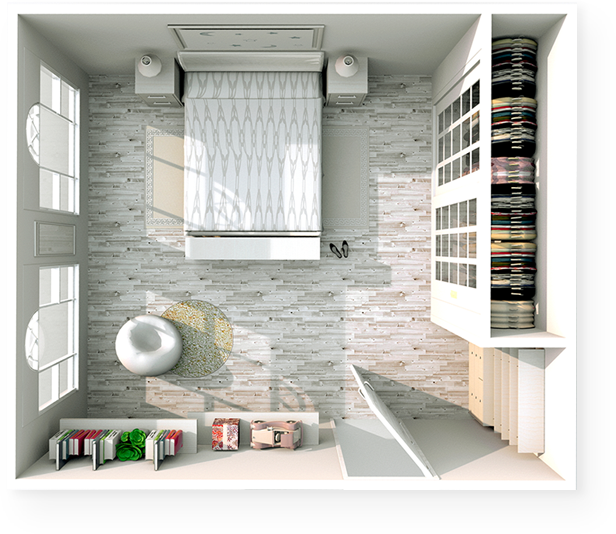
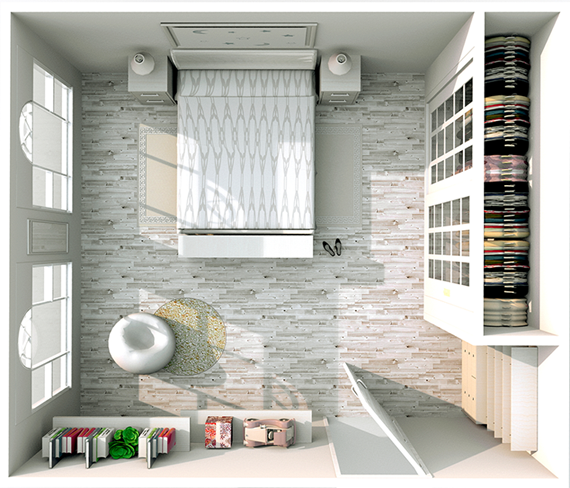
Исправил положение hero-image, добавил к нему тени и адаптировал для экранов 320px

diff --git a/src/css/style.css b/src/css/style.css
@@ -102,6 +102,15 @@ img {
   padding: 50px 0;
 }
 
+.hero-image {
+  -webkit-box-shadow: 10px 10px 30px rgba(154, 147, 140, 0.5);
+          box-shadow: 10px 10px 30px rgba(154, 147, 140, 0.5);
+}
+
+.hero-image img {
+  max-width: 100%;
+}
+
 .hero-block {
   display: -webkit-box;
   display: -ms-flexbox;
@@ -183,9 +192,6 @@ img {
 }
 
 @media (max-width: 768px) {
-  .hero-image {
-    max-width: 100%;
-  }
   .hero-text__title {
     font-size: 24px;
     line-height: 1.4;

diff --git a/src/sass/blocks/_hero.sass b/src/sass/blocks/_hero.sass
@@ -1,6 +1,10 @@
 .hero
   background-color: $hero-color
   padding: 50px 0
+  &-image
+    box-shadow: 10px 10px 30px rgba(154, 147, 140, 0.5)
+    img
+      max-width: 100%
   &-block
     display: flex
   &-text
@@ -46,8 +50,6 @@
       padding-right: 10px
 @media (max-width: 768px)
   .hero
-    &-image
-      max-width: 100%;
     &-text
       &__title
         font-size: 24px
